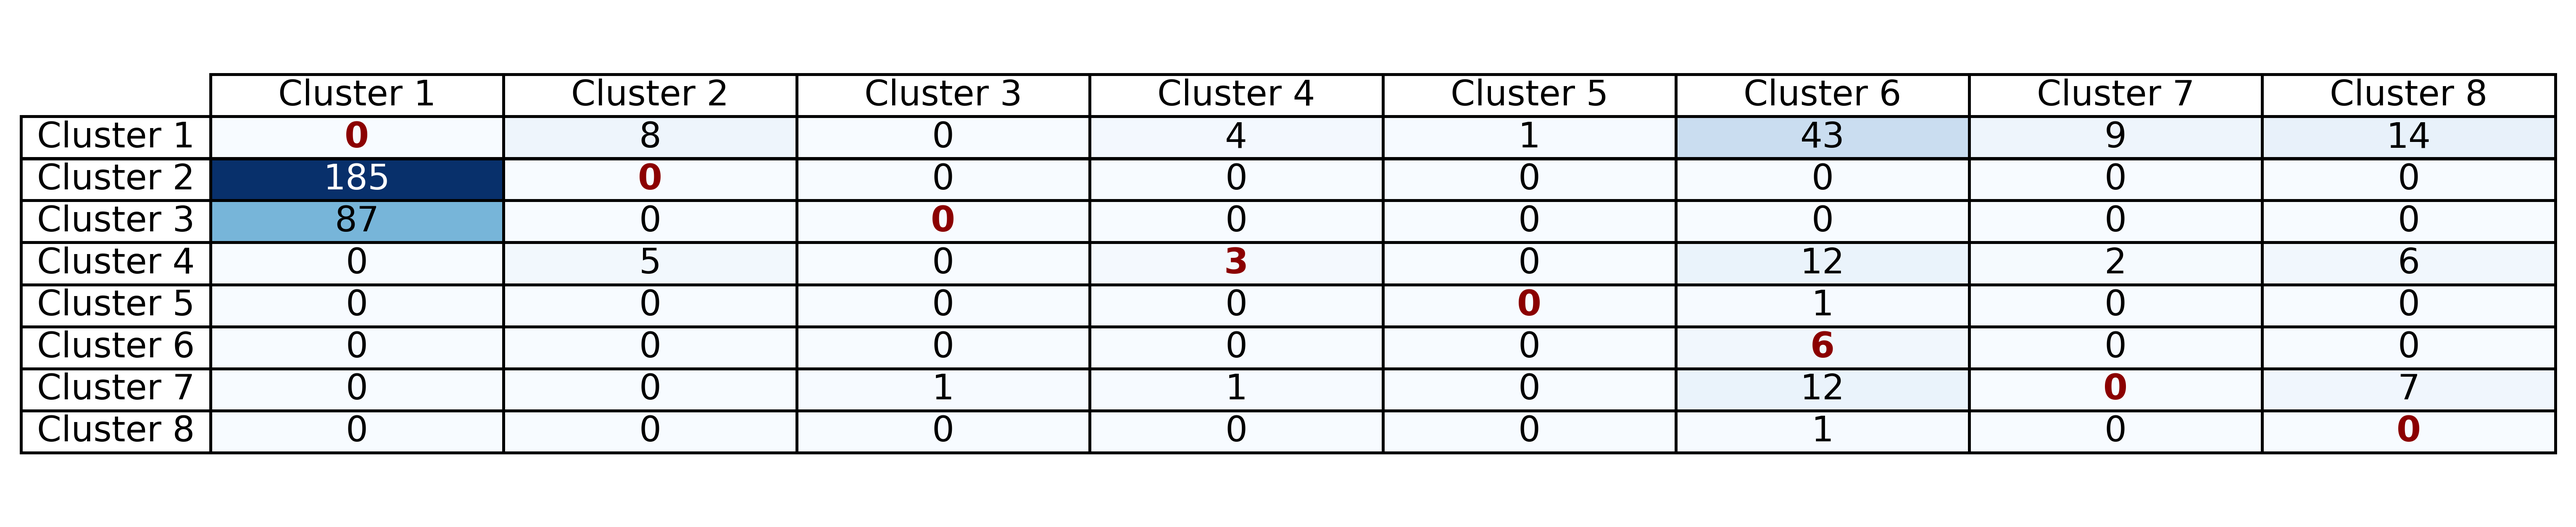
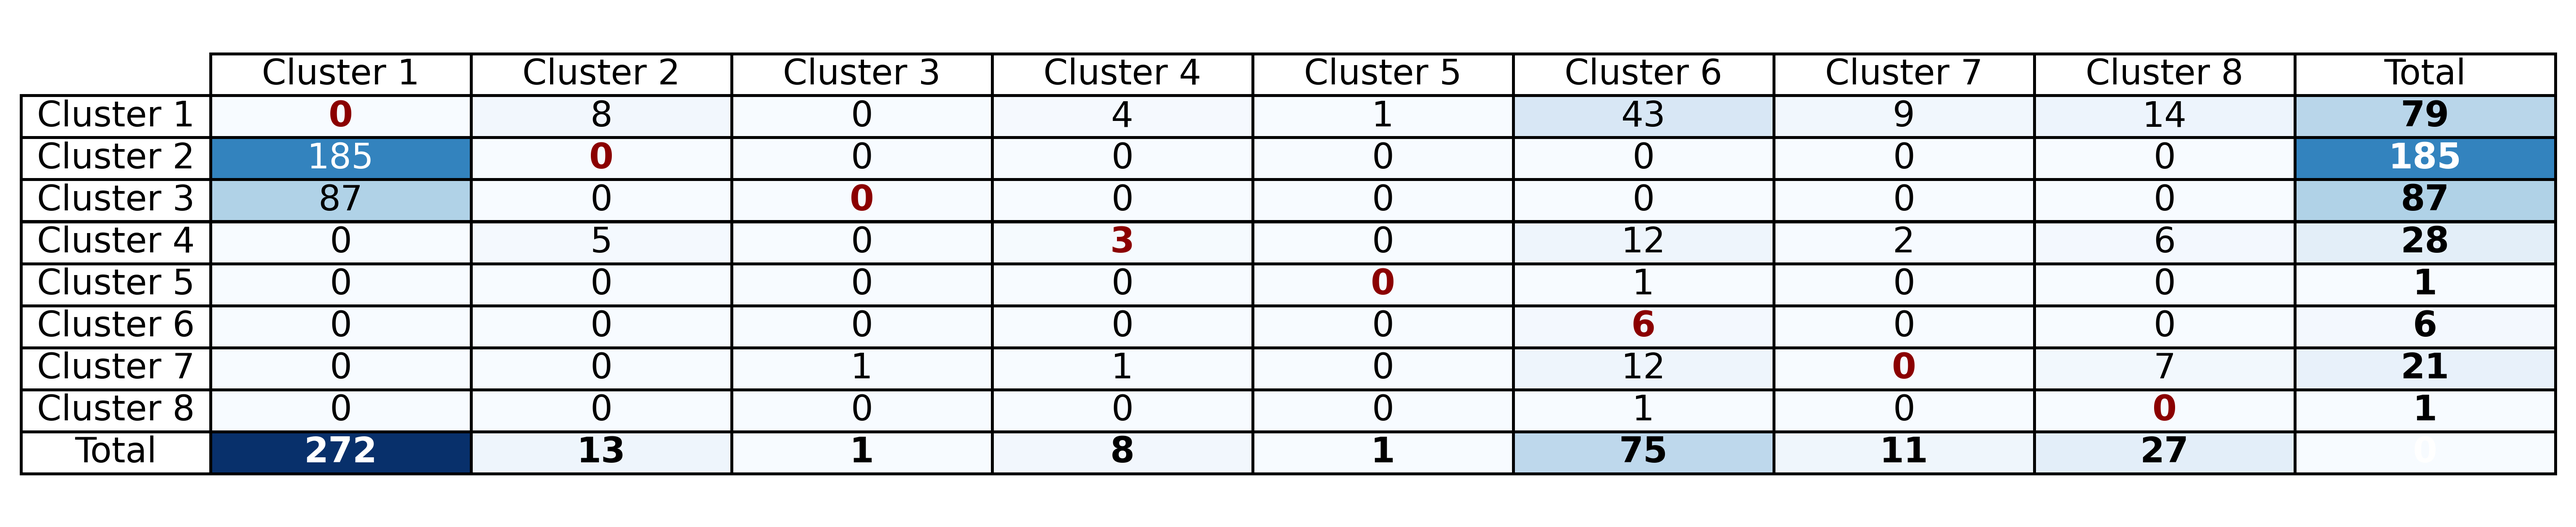
Edited the contingency table to include totals.

Changed region(s): [[0.0, 0.0932, 0.9971, 0.9012]]

diff --git a/src/dataset_a/scripts/_q1c.py b/src/dataset_a/scripts/_q1c.py
@@ -63,13 +63,29 @@ def q1c():
     )
 
     # Create the contingency table
-    contingency_table = confusion_matrix(kmeans_1_all.values, kmeans_2_all.values)
+    _contingency_table = confusion_matrix(kmeans_1_all.values, kmeans_2_all.values)
 
-    format_contingency_table(
-        contingency_table,
-        columns=[f'Cluster {i + 1}' for i in range(contingency_table.shape[1])],
-        index=[f'Cluster {i + 1}' for i in range(contingency_table.shape[0])],
+    contingency_table = pd.DataFrame(_contingency_table)
+    contingency_table.loc[8] = np.sum(_contingency_table, axis=0)
+    contingency_table[8] = np.append(np.sum(_contingency_table, axis=1), [0])
+
+    tbl = format_contingency_table(
+        contingency_table.values,
+        columns=[
+            f'Cluster {i + 1}' for i in range(contingency_table.values.shape[1] - 1)
+        ]
+        + ['Total'],
+        index=[f'Cluster {i + 1}' for i in range(contingency_table.values.shape[0] - 1)]
+        + ['Total'],
     )
+
+    # Make the bottom right cell dissappear
+    tbl.get_celld()[(9, 8)].set_text_props(color='white')
+
+    # Make the last row and column bold
+    for i in range(len(contingency_table)):
+        tbl[(i + 1, 8)].set_text_props(weight='bold')
+        tbl[(9, i)].set_text_props(weight='bold')
 
     cwd = os.path.dirname(os.path.realpath(__file__))
 

diff --git a/report/src/sections/dataset-a.tex b/report/src/sections/dataset-a.tex
@@ -71,3 +71,5 @@
     This indicates that $k=8$ is a bad choice for this dataset - the dataset is labelled and as such it is known
     that $k=3$ for this dataset, so a poor clustering as indicated by the contingency table is expected.
     The contingency table also indicates that the clustering is not very stable, as the majority of the observations
+
+\subsubsection{Question 1d}\label{subsubsec:q1d}
